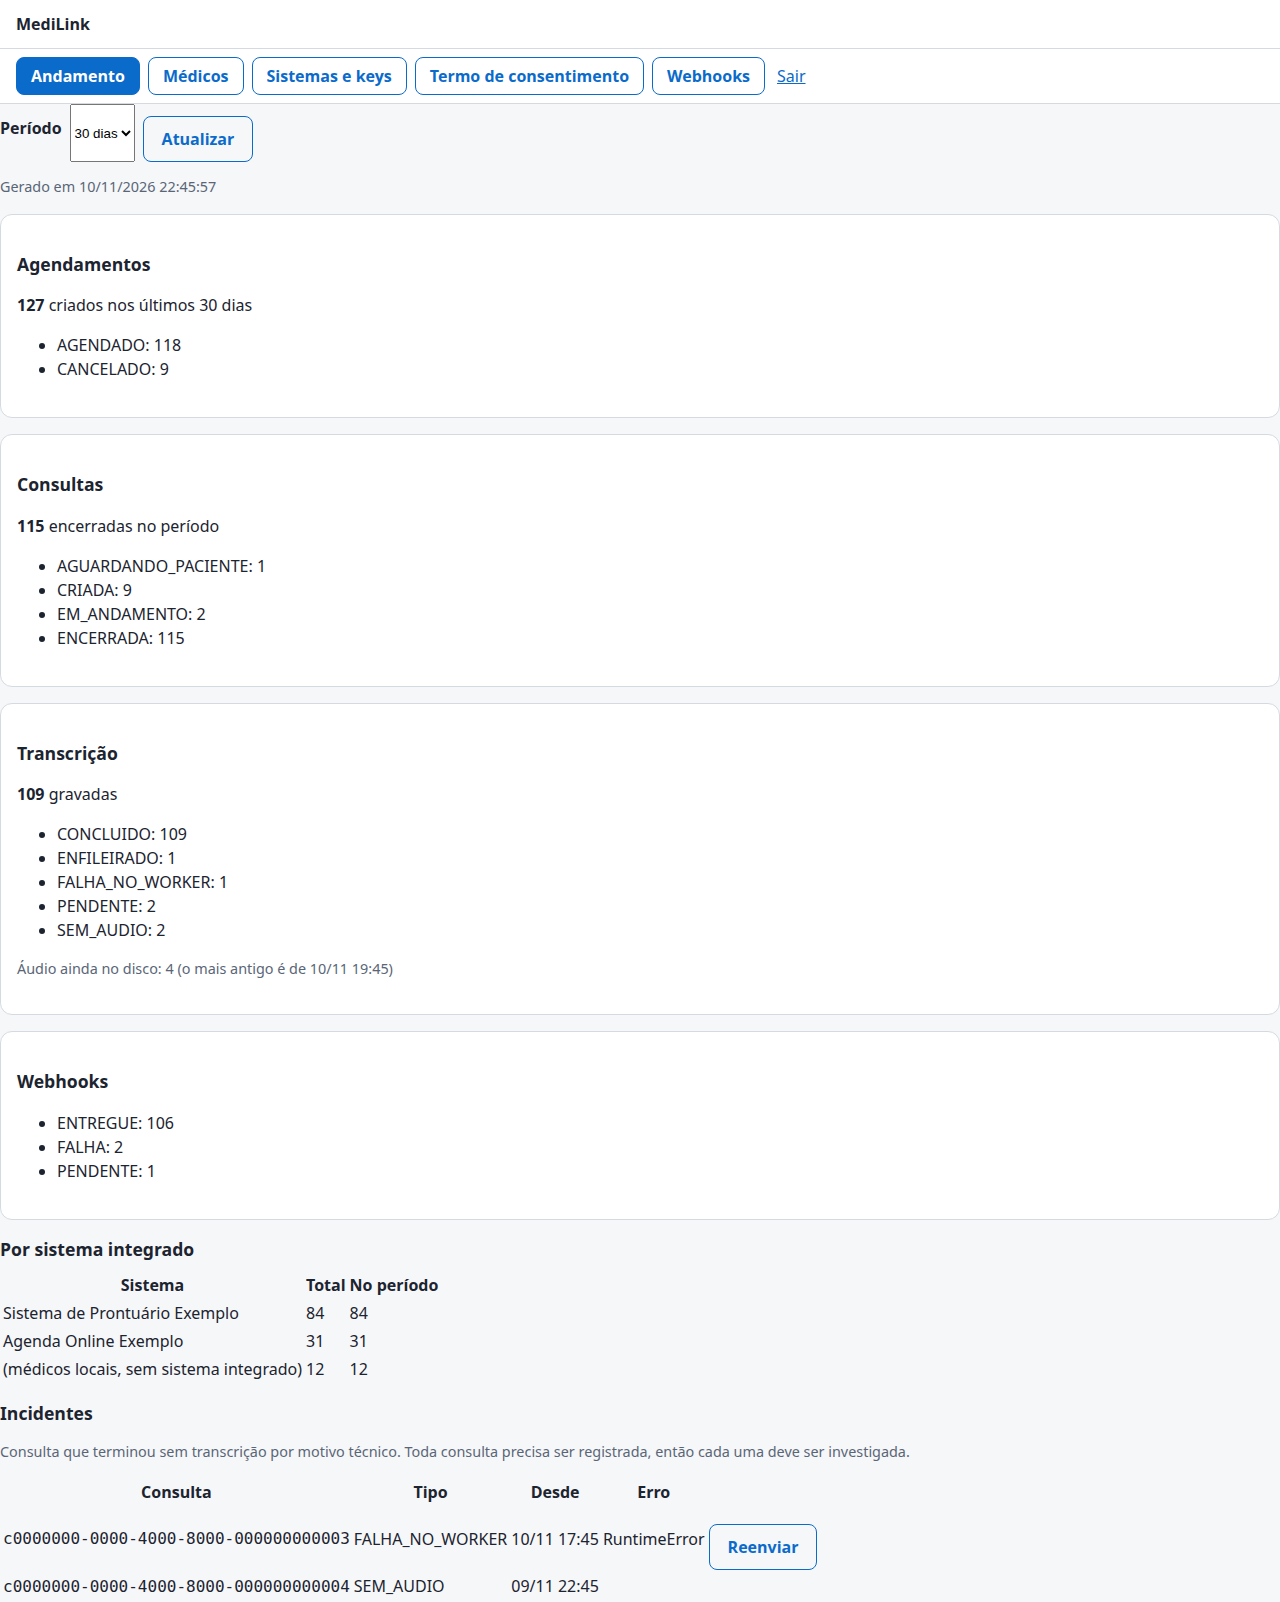
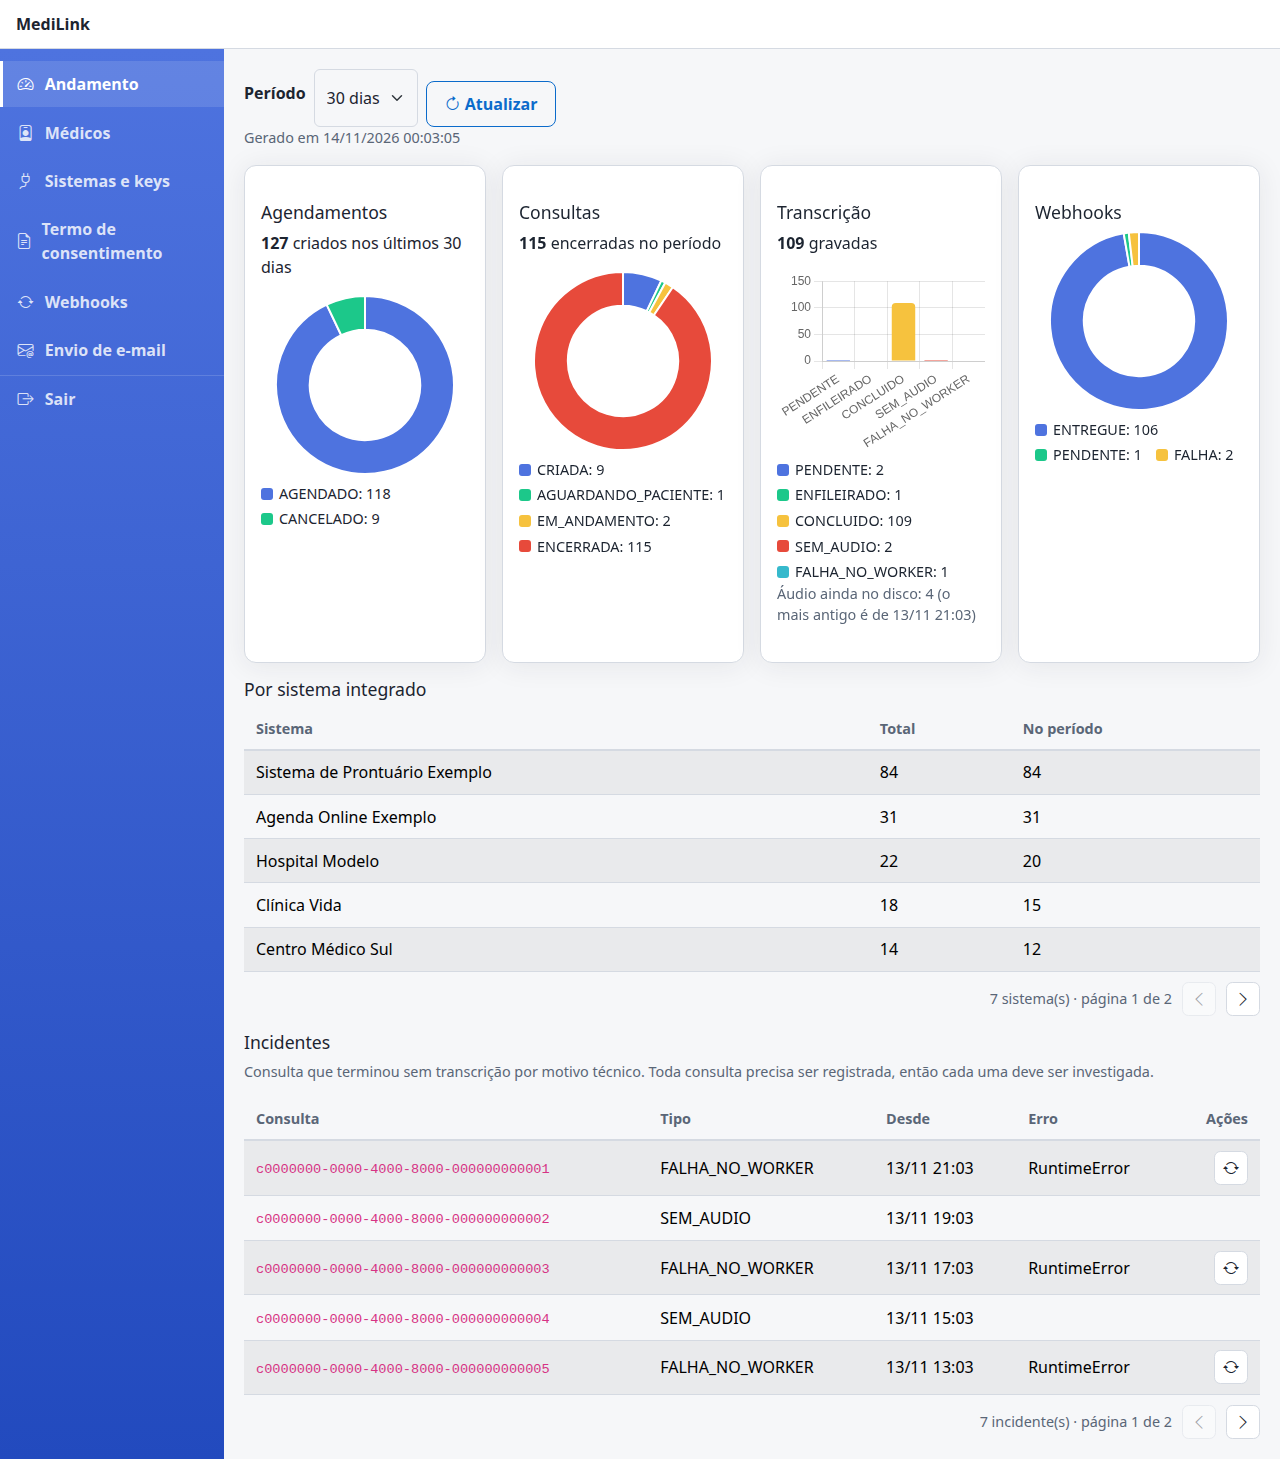
docs: manual do usuário em HTML navegável com capturas atualizadas da interface

diff --git a/infra/dev/capturar_manual_html.py b/infra/dev/capturar_manual_html.py
@@ -1,0 +1,302 @@
+#!/usr/bin/env python3
+"""Capturas de tela do manual HTML (docs/manual/img), SEM as cenas do Jitsi.
+
+Reaproveita a infraestrutura de infra/dev/capturar_manual.py (Chrome headless via DevTools, dados
+fictícios pela API). Cobre: acesso do paciente até a sala de espera, área do médico (login, lista com
+ícones de ação, modais de link e de cancelamento, agendamento, transcrição) e a área administrativa
+completa (andamento com gráficos e paginação, médicos, sistemas em modal, termo, webhooks e SMTP).
+
+Pré-requisitos: backend em :8090, ng serve em :4200, segredo TOTP do administrador de dev em
+~/.cache/medilink/smoke-totp. O Jitsi NÃO é necessário.
+
+Uso: capturar_manual_html.py [pasta-de-saída]   (padrão: docs/manual/img)
+"""
+import asyncio
+import json
+import sys
+import time
+from datetime import datetime, timedelta, timezone
+from pathlib import Path
+
+sys.path.insert(0, str(Path(__file__).resolve().parent))
+import capturar_manual as base
+from capturar_manual import Aba, api, exigir, iniciar_chrome, preparar_dados, totp, agendar, APP, SENHA_MEDICO, SENHA_ADMIN, CPF, DESKTOP, CELULAR
+
+import shutil
+import tempfile
+
+SAIDA = Path(sys.argv[1]) if len(sys.argv) > 1 else Path(__file__).resolve().parent.parent.parent / "docs" / "manual" / "img"
+base.SAIDA = SAIDA
+
+
+async def clicar_aria(aba, rotulo, indice=0):
+    """Clica num botão/link identificado pelo aria-label (os ícones de ação não têm texto)."""
+    ok = await aba.js(f"""(()=>{{const l=[...document.querySelectorAll('[aria-label]')].filter(x=>x.getAttribute('aria-label')==={json.dumps(rotulo)});
+        if(l.length<={indice})return false;l[{indice}].click();return true;}})()""")
+    if not ok:
+        raise RuntimeError(f"controle não encontrado (aria-label): {rotulo}")
+    await asyncio.sleep(0.6)
+
+
+async def paciente(sala):
+    print("paciente…", flush=True)
+    pac = await Aba.nova(*CELULAR, celular=True)
+    await pac.ir(f"{APP}/sala/consulta-inexistente-0000")
+    await pac.esperar_texto("Consulta não encontrada")
+    await pac.foto("p00-link-invalido")
+    await pac.ir(f"{APP}/sala/{sala}")
+    await pac.esperar_texto("confirme seu CPF")
+    await pac.foto("p01-confirmar-cpf")
+    await pac.digitar("#cpf", "123.456.789-09")
+    await pac.clicar("Continuar")
+    await pac.esperar("document.querySelector('[role=alert]')", 10, "erro de CPF")
+    await pac.foto("p02-cpf-incorreto")
+    await pac.digitar("#cpf", CPF)
+    await pac.clicar("Continuar")
+    await pac.esperar_texto("Antes de entrar")
+    await pac.foto("p03-termo", completo=True)
+    await pac.clicar("Li e aceito")
+    await pac.esperar_texto("Sala de espera")
+    await pac.foto("p04-sala-de-espera")
+    await pac.fechar()
+
+
+async def medico(dados, principal):
+    print("médico…", flush=True)
+    med = await Aba.nova(*DESKTOP)
+    await med.ir(f"{APP}/medico")
+    await med.esperar_texto("Acesso do médico")
+    await med.foto("m01-login")
+    await med.digitar("#usuario", dados["medico_email"])
+    await med.digitar("#senha", "senha-errada-123")
+    await med.clicar("Entrar")
+    await med.esperar("document.querySelector('[role=alert]')", 10, "erro de login")
+    await med.foto("m02-login-recusado")
+
+    await med.ir(f"{APP}/medico")
+    await med.esperar_texto("Acesso do médico")
+    await med.digitar("#usuario", dados["totp_email"])
+    await med.digitar("#senha", SENHA_MEDICO)
+    await med.clicar("Entrar")
+    await med.esperar_texto("Cadastre este segredo")
+    await med.foto("m03-login-totp-primeiro-acesso")
+
+    await med.ir(f"{APP}/medico")
+    await med.esperar_texto("Acesso do médico")
+    await med.digitar("#usuario", dados["medico_email"])
+    await med.digitar("#senha", SENHA_MEDICO)
+    await med.clicar("Entrar")
+    await med.esperar_texto("Minhas consultas")
+    await med.esperar_texto("Maria Souza")
+    await med.foto("m04-minhas-consultas", completo=True)
+
+    # modal "Rever o link do paciente"
+    await clicar_aria(med, "Rever o link do paciente")
+    await med.esperar_texto("Link do paciente")
+    await med.foto("m14-link-do-paciente")
+    await med.clicar("Fechar")
+
+    # modal de cancelamento (confirma de verdade: a consulta de Fernanda fica "Cancelada" na lista)
+    await clicar_aria(med, "Cancelar consulta", indice=2)
+    await med.esperar_texto("O link do paciente deixará de funcionar")
+    await med.foto("m15-cancelar-consulta")
+    await med.clicar("Cancelar a consulta")
+    await med.esperar_texto("cancelada.")
+    await med.foto("m16-consulta-cancelada", completo=True)
+
+    # novo agendamento
+    await med.clicar("Agendar consulta", "nav a")
+    await med.esperar_texto("Novo agendamento")
+    await med.digitar("#nome", "Paulo Ribeiro")
+    await med.digitar("#cpf", "168.995.350-09")
+    await med.digitar("#email", "paulo.ribeiro@exemplo.test")
+    quando = (datetime.now() + timedelta(days=3)).replace(hour=14, minute=30).strftime("%Y-%m-%dT%H:%M")
+    await med.digitar("#quando", quando)
+    await med.foto("m05-novo-agendamento", completo=True)
+    await med.clicar("Agendar", "button[type=submit]")
+    await med.esperar_texto("Agendamento criado")
+    await med.foto("m06-agendamento-criado", completo=True)
+
+    # transcrição (texto de exemplo simulado: o worker não é necessário para o manual)
+    agora = datetime.now(timezone.utc)
+    await med.simular("/transcricao", {
+        "consultaId": principal["consultaId"], "idioma": "pt", "duracaoMs": 74000, "criadaEm": agora.isoformat(), "texto": "",
+        "segmentos": [
+            {"papel": "MEDICO", "inicioMs": 2000, "fimMs": 6500, "texto": "Bom dia, Maria. Como você está se sentindo hoje?"},
+            {"papel": "PACIENTE", "inicioMs": 7200, "fimMs": 14800, "texto": "Bom dia, doutora. Ainda sinto um pouco de dor de cabeça, principalmente à tarde."},
+            {"papel": "MEDICO", "inicioMs": 16000, "fimMs": 24500, "texto": "Entendi. Você conseguiu medir a pressão nos últimos dias?"},
+            {"papel": "PACIENTE", "inicioMs": 25600, "fimMs": 31000, "texto": "Medi ontem: estava em doze por oito."}]})
+    await med.ir(f"{APP}/medico/transcricao/{principal['consultaId']}")
+    await med.esperar_texto("Bom dia, Maria")
+    await med.foto("m12-transcricao", completo=True)
+    print("  (a transcrição da captura m12 é texto de exemplo simulado)", flush=True)
+
+    await med.ir(f"{APP}/medico/acesso#t=link-de-exemplo-expirado")
+    await med.esperar("document.body.innerText.length>20", 15, "tela do link")
+    await asyncio.sleep(1.5)
+    await med.foto("m13-link-invalido")
+    await med.fechar()
+
+
+async def administrador(dados):
+    """Listas simuladas com dados fictícios enxutos (o banco de dev acumula lixo dos testes);
+    login, TOTP, formulários, modal do sistema e SMTP são reais."""
+    print("administrador…", flush=True)
+    adm = await Aba.nova(*DESKTOP)
+    agora = datetime.now(timezone.utc)
+    medicos = [
+        {"id": "20000000-0000-4000-8000-000000000001", "nome": "Dra. Ana Lima", "identificadorProfissional": "CRM-SP 123456", "email": "ana.lima@clinica.exemplo",
+         "ativo": True, "temSenha": True, "totpHabilitado": True, "totpConfirmado": True, "deIntegracao": False},
+        {"id": "20000000-0000-4000-8000-000000000002", "nome": "Dr. João Pereira", "identificadorProfissional": "CRM-RS 4321", "email": "joao.pereira@clinica.exemplo",
+         "ativo": True, "temSenha": True, "totpHabilitado": True, "totpConfirmado": False, "deIntegracao": False},
+        {"id": "20000000-0000-4000-8000-000000000003", "nome": "Dra. Carla Mendes", "identificadorProfissional": "CRM-MG 98765", "email": "carla.mendes@clinica.exemplo",
+         "ativo": False, "temSenha": True, "totpHabilitado": False, "totpConfirmado": False, "deIntegracao": False},
+        {"id": "20000000-0000-4000-8000-000000000004", "nome": "Dr. Paulo Souza", "identificadorProfissional": "CRM-BA 11223", "email": "ext-1@integracao.medilink.invalid",
+         "ativo": True, "temSenha": False, "totpHabilitado": False, "totpConfirmado": False, "deIntegracao": True}]
+    integradores = [
+        {"id": "10000000-0000-4000-8000-000000000001", "nome": "Sistema de Prontuário Exemplo", "ativo": True, "webhookBaseUrl": "https://api.cliente.com.br/hooks/medilink",
+         "webhookAtivo": True, "webhookTemSegredo": True, "criadoEm": (agora - timedelta(days=40)).isoformat()},
+        {"id": "10000000-0000-4000-8000-000000000002", "nome": "Agenda Online Exemplo", "ativo": True, "webhookBaseUrl": None, "webhookAtivo": False,
+         "webhookTemSegredo": False, "criadoEm": (agora - timedelta(days=12)).isoformat()}]
+    sistemas_painel = [
+        {"sistema": "Sistema de Prontuário Exemplo", "total": 84, "noPeriodo": 84},
+        {"sistema": "Agenda Online Exemplo", "total": 31, "noPeriodo": 31},
+        {"sistema": "Hospital Modelo", "total": 22, "noPeriodo": 20},
+        {"sistema": "Clínica Vida", "total": 18, "noPeriodo": 15},
+        {"sistema": "Centro Médico Sul", "total": 14, "noPeriodo": 12},
+        {"sistema": "Rede Saúde Norte", "total": 9, "noPeriodo": 9},
+        {"sistema": "(médicos locais, sem sistema integrado)", "total": 12, "noPeriodo": 12}]
+    incidentes = [{"consultaId": f"c0000000-0000-4000-8000-00000000000{i}", "tipo": ("FALHA_NO_WORKER" if i % 2 else "SEM_AUDIO"),
+                   "desde": (agora - timedelta(hours=2 * i + 1)).isoformat(), "erro": ("RuntimeError" if i % 2 else None)} for i in range(1, 8)]
+    painel = {"geradoEm": agora.isoformat(), "periodoDias": 30,
+              "agendamentos": {"porStatus": {"AGENDADO": 118, "CANCELADO": 9}, "criadosNoPeriodo": 127, "porSistema": sistemas_painel},
+              "consultas": {"porStatus": {"CRIADA": 9, "AGUARDANDO_PACIENTE": 1, "EM_ANDAMENTO": 2, "ENCERRADA": 115}, "encerradasNoPeriodo": 115},
+              "transcricao": {"jobsPorStatus": {"PENDENTE": 2, "ENFILEIRADO": 1, "CONCLUIDO": 109, "SEM_AUDIO": 2, "FALHA_NO_WORKER": 1}, "transcricoesGravadas": 109,
+                              "audioAindaNoDisco": 4, "audioMaisAntigoDesde": (agora - timedelta(hours=3)).isoformat()},
+              "webhooks": {"ENTREGUE": 106, "PENDENTE": 1, "FALHA": 2},
+              "incidentes": incidentes}
+    st, vigente = api("GET", "/api/termo-consentimento")
+    exigir((st, vigente))
+    base_termo = {"texto": vigente["texto"], "hash": vigente.get("hash") or "0" * 64, "criadoEm": (agora - timedelta(days=10)).isoformat()}
+    v1 = {"id": "30000000-0000-4000-8000-000000000001", "versao": "v1", "status": "ARQUIVADO", "criadoPor": "sistema", "publicadoEm": None, **base_termo}
+    v2 = {"id": "30000000-0000-4000-8000-000000000002", "versao": "v2", "status": "VIGENTE", "criadoPor": "sistema", "publicadoEm": (agora - timedelta(days=10)).isoformat(), **base_termo}
+    v3 = {"id": "30000000-0000-4000-8000-000000000003", "versao": "v3", "status": "RASCUNHO", "criadoPor": "admin@clinica.exemplo", "publicadoEm": None, **base_termo}
+    termos = [v1, v2]
+
+    def novo_rascunho():
+        if v3 not in termos:
+            termos.insert(0, v3)
+        return v3
+    await adm.simular("/api/admin/termos", lambda: list(termos), exato=True, metodo="GET")
+    await adm.simular("/api/admin/termos", novo_rascunho, exato=True, metodo="POST")
+    await adm.simular("/api/admin/painel", painel, metodo="GET")
+    await adm.simular("/api/admin/medicos", lambda: medicos, exato=True, metodo="GET")
+    await adm.simular("/api/admin/integradores", lambda: integradores, exato=True, metodo="GET")
+    await adm.simular("/api/admin/webhooks/entregas", [
+        base.entrega(1, "ENTREGUE", "transcricao.concluida", 1, 200, None, 25),
+        base.entrega(2, "PENDENTE", "transcricao.concluida", 2, 503, "HTTP 503", 12),
+        base.entrega(3, "FALHA", "transcricao.indisponivel", 7, 400, "HTTP 400", 600)], metodo="GET")
+
+    await adm.ir(f"{APP}/admin")
+    await adm.esperar_texto("Administração")
+    await adm.foto("a01-login")
+    await adm.digitar("#email", dados["admin_email"])
+    await adm.digitar("#senha", SENHA_ADMIN)
+    await adm.clicar("Entrar")
+    await adm.esperar_texto("Primeiro acesso")
+    await adm.foto("a02-primeiro-acesso-totp")
+    segredo = await adm.js("document.querySelector('[role=note] code').textContent")
+    await adm.digitar("#codigo", totp(segredo))
+    await adm.clicar("Entrar")
+    await adm.esperar_texto("Agendamentos", 20)
+    await asyncio.sleep(2)  # gráficos
+    await adm.foto("a03-painel-andamento", completo=True)
+
+    await adm.clicar("Médicos", "nav button")
+    await adm.esperar_texto("Novo médico")
+    await adm.digitar("#mnome", "Dr. Ricardo Nunes")
+    await adm.digitar("#mid", "CRM-RJ 55555")
+    await adm.digitar("#memail", "ricardo.nunes@clinica.exemplo")
+    await adm.digitar("#msenha", "uma-senha-inicial-123")
+    await adm.marcar("input[name=mtotp]")
+    await adm.foto("a04-medicos-cadastro", completo=True)
+    ricardo = {"id": "20000000-0000-4000-8000-000000000005", "nome": "Dr. Ricardo Nunes", "identificadorProfissional": "CRM-RJ 55555",
+               "email": "ricardo.nunes@clinica.exemplo", "ativo": True, "temSenha": True, "totpHabilitado": True, "totpConfirmado": False, "deIntegracao": False}
+    medicos.append(ricardo)
+    await adm.simular("/api/admin/medicos", ricardo, exato=True, metodo="POST")  # o cadastro não cria nada no banco
+    await adm.clicar("Cadastrar")
+    await adm.esperar_texto("Ricardo Nunes")
+    await adm.foto("a05-medicos-lista", completo=True)
+    await clicar_aria(adm, "Redefinir senha")
+    await adm.esperar_texto("Nova senha de")
+    await adm.foto("a06-medicos-redefinir-senha", completo=True)
+    await adm.clicar("Cancelar")
+
+    # Sistemas: lista com busca/paginação + modal com key no topo e webhook
+    nome_real = "Hospital Modelo (integração)"
+    integradores.append({"id": dados["integrador_id"], "nome": nome_real, "ativo": True, "webhookBaseUrl": None, "webhookAtivo": False,
+                         "webhookTemSegredo": False, "criadoEm": agora.isoformat()})
+    await adm.clicar("Sistemas e keys", "nav button")
+    await adm.esperar_texto("Sistemas integrados")
+    await adm.esperar_texto(nome_real)
+    await adm.foto("a07-sistemas-lista", completo=True)
+    await adm.js(f"""(()=>{{const l=[...document.querySelectorAll('tbody tr')].find(t=>t.textContent.includes({json.dumps(nome_real)}));
+        l.querySelector('[aria-label=Abrir]').click();}})()""")
+    await adm.esperar_texto("API keys")
+    await adm.digitar("input[name=nomeKey]", "produção")
+    await adm.foto("a08-sistema-modal", completo=True)
+    await adm.clicar("Gerar key")
+    await adm.esperar_texto("não será mostrado de novo")
+    # A key de verdade é de desenvolvimento, mas não vai para o repositório: a captura mostra um valor de exemplo.
+    await adm.js("""(()=>{const c=document.querySelector('.destaque-segredo input');
+        c.value='mlk_0123456789abcdef0123456789abcdef_EXEMPLO-NAO-USE-ESTE-VALOR';})()""")
+    await adm.foto("a08b-sistemas-key-criada", completo=True)
+    await adm.clicar("Já guardei")
+    await adm.digitar("#base", "https://api.cliente.com.br/hooks/medilink")
+    await adm.foto("a09-sistemas-webhook", completo=True)
+    await adm.clicar("Fechar")
+
+    await adm.clicar("Termo de consentimento", "nav button")
+    await adm.esperar_texto("Nova versão")
+    await adm.foto("a10-termo-versoes", completo=True)
+    await adm.clicar("Nova versão")
+    await adm.esperar_texto("RASCUNHO")
+    await adm.foto("a11-termo-rascunho", completo=True)
+
+    await adm.clicar("Webhooks", "nav button")
+    await adm.esperar_texto("Entregas de webhook")
+    await asyncio.sleep(1)
+    await adm.foto("a12-webhooks-entregas", completo=True)
+
+    await adm.clicar("Envio de e-mail", "nav button")
+    await adm.esperar_texto("Envio de e-mail (SMTP)")
+    await adm.digitar("#host", "smtp.clinica.exemplo")
+    await adm.digitar("#usuario", "no-reply@clinica.exemplo")
+    await adm.digitar("#remetente", "no-reply@clinica.exemplo")
+    await adm.foto("a13-smtp", completo=True)
+    await adm.fechar()
+
+
+async def main():
+    dados = preparar_dados()
+    st, sessao = api("POST", "/api/medico/login", {"email": dados["medico_email"], "senha": SENHA_MEDICO})
+    token_medico = exigir((st, sessao))["token"]
+    agora = datetime.now(timezone.utc)
+    principal = agendar(token_medico, "Maria Souza", CPF, agora + timedelta(minutes=5), "maria.souza@exemplo.test")
+    agendar(token_medico, "José Almeida", "111.444.777-35", agora + timedelta(days=1, hours=2))
+    agendar(token_medico, "Fernanda Costa", "390.533.447-05", agora + timedelta(days=2, hours=1))
+
+    perfil = tempfile.mkdtemp(prefix="medilink-manual-")
+    chrome = iniciar_chrome(perfil)
+    try:
+        await paciente(principal["roomName"])
+        await medico(dados, principal)
+        await administrador(dados)
+        print("capturas concluídas em", SAIDA, flush=True)
+    finally:
+        chrome.terminate()
+        shutil.rmtree(perfil, ignore_errors=True)
+
+
+if __name__ == "__main__":
+    asyncio.run(main())
